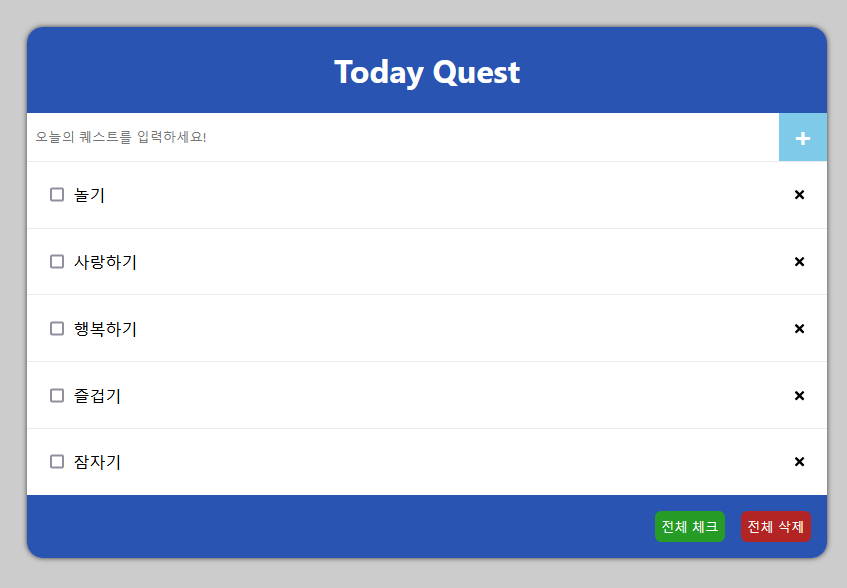
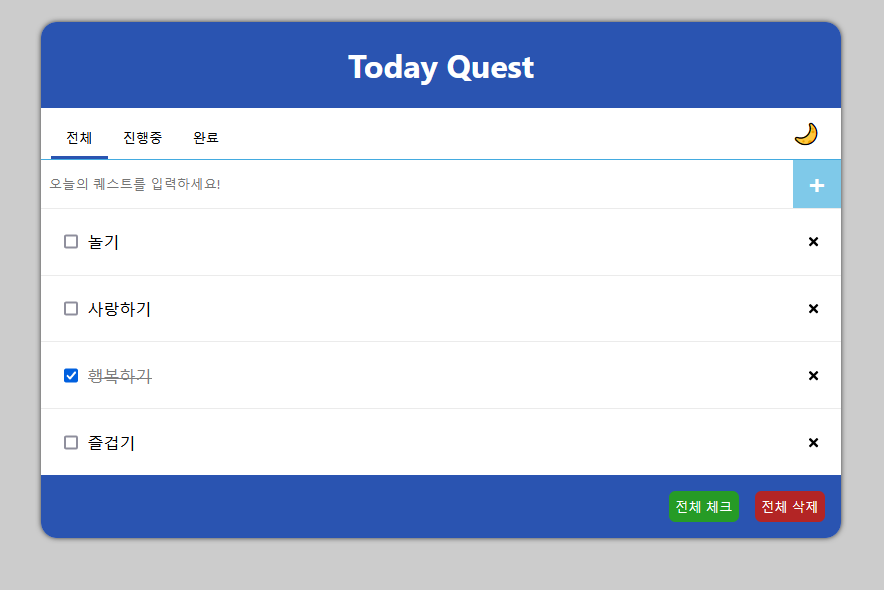
readme 파일 수정

Changed region(s): [[0.0307, 0.0306, 0.9823, 0.9796], [0.3684, 0.0918, 0.6139, 0.1531]]

diff --git a/src/components/quest_category/quest_category.jsx b/src/components/quest_category/quest_category.jsx
@@ -1,19 +1,19 @@
-import React, { useContext } from "react";
+import React, { memo, useCallback, useContext } from "react";
 import { DarkmodeContext } from "../../context/darkmode_context";
 import styles from "./quest_category.module.css";
 
-const QuestCategory = ({ category, getCategory }) => {
-    const {darkmode, toggleDarkmode} = useContext(DarkmodeContext);
+const QuestCategory = memo(({ category, getCategory }) => {
+	const { darkmode, toggleDarkmode } = useContext(DarkmodeContext);
 
-	const allClick = () => {
+	const allClick = useCallback(() => {
 		getCategory("All");
-	};
-	const workingClick = () => {
+	}, [getCategory]);
+	const workingClick = useCallback(() => {
 		getCategory("Working");
-	};
-	const completeClick = () => {
+	}, [getCategory]) ;
+	const completeClick = useCallback(() => {
 		getCategory("Complete");
-	};
+	}, [getCategory]) ;
 
 	return (
 		<nav className={styles.category}>
@@ -43,11 +43,11 @@ const QuestCategory = ({ category, getCategory }) => {
 			</div>
 			<div className={styles.darkmode}>
 				<button onClick={() => toggleDarkmode()}>
-                    {darkmode === true? <span>🌞</span> : <span>🌙</span>}
+					{darkmode === true ? <span>🌞</span> : <span>🌙</span>}
 				</button>
 			</div>
 		</nav>
 	);
-};
+})
 
 export default QuestCategory;

diff --git a/src/components/quest_Insert/quest_insert.jsx b/src/components/quest_Insert/quest_insert.jsx
@@ -1,4 +1,4 @@
-import React, { memo, useCallback, useRef } from "react";
+import React, { memo,  useRef } from "react";
 import styles from "./quest_insert.module.css";
 
 const QuestInsert = memo(({ onAddQuest }) => {

diff --git a/README.md b/README.md
@@ -7,3 +7,7 @@
 - 리스트 추가
 - 리스트 삭제
 - 리스트 체크/전체 체크
+
+(추가)
+- 리스트 탭 (진행중/완료)
+- 다크모드
